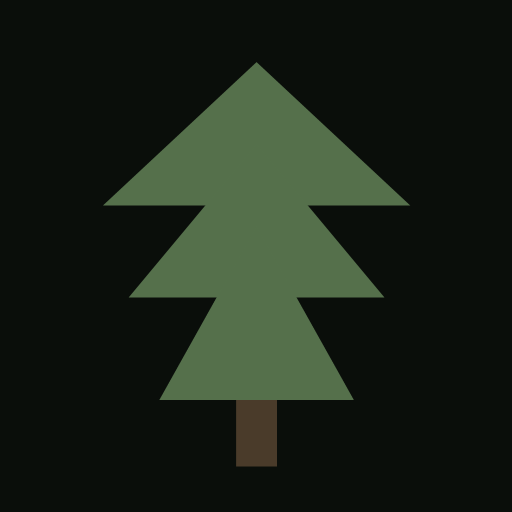
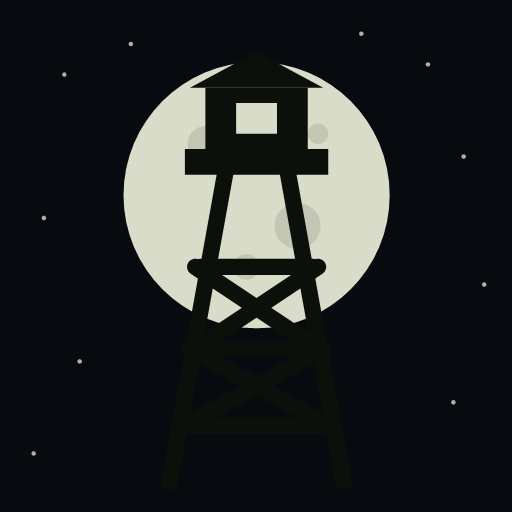
Rounded plane windows, better footsteps, the log shed and its map
- Plane cabin + door windows are rounded-corner portholes in raised
  rounded surrounds (ExtrudeGeometry ring + ShapeGeometry pane)
  instead of stacked boxes
- Footsteps: a pitched heel thud under randomized leaf-litter grains,
  occasional twig snap; water steps get body, slosh and spray layers
- End cards (ending/death/start) sized for phones: smaller type,
  scrollable, 80vw text measure
- New log shed halfway along the cabin-crash walk (~120m from each,
  the closest geometry allows to 100/100): stacked-log walls with an
  open doorway facing the crash, lean-to plank roof, corner posts,
  spare log pile, wall collision with the door gap open
- Inside: an iron-strapped plank chest, lid thrown back, holding a
  rolled map. Reading it shows a hand-drawn route map with the cabin,
  pond (new wobbly-shore glyph), watch tower, the shed itself, and
  the wreck marked with a cross
- Two new trail legs wear in: cabin -> shed and shed -> crash, with
  ribbons, grass and tree clearing following automatically
- App icon is now the watch tower silhouetted against the moon

Changed region(s): [[0.1875, 0.125, 0.8125, 0.9375]]

diff --git a/game.js b/game.js
@@ -119,6 +119,10 @@ const PART_SPOTS = {
   'Spark Plug': { x: GEN.x + 9,  z: GEN.z + 8 },
   'Drive Belt': { x: GEN.x - 4,  z: GEN.z - 13 },
 };
+/* the log shed sits on the old walk halfway between the cabin and the crash —
+   as near to "a hundred metres from each" as geometry allows (they're ~240 apart) */
+const SHED = { x: Math.round((CABIN.x + 3) / 2), z: Math.round((CABIN.z + 6) / 2) };
+const SHED_ROT = Math.atan2(3 - SHED.x, 6 - SHED.z); // its door looks toward the crash
 
 /* the walked trails — defined early so the forest leaves them clear.
    One leaves the crash mud for the cabin; the other leaves the opposite side
@@ -131,6 +135,9 @@ const TRAIL_LEGS = [
   { a: { x: 6, z: 1 }, b: { x: MAPCFG.riverX - 14, z: MAPCFG.bridgeZ } },      // crash -> the bridge
   { a: { x: MAPCFG.riverX + 14, z: MAPCFG.bridgeZ },                           // over the river -> the hill
     b: { x: HILL.x - 10, z: HILL.z + 9 } },
+  // the trapper's round: cabin -> the shed -> back to the crash clearing
+  { a: cabRot(2.5, 5.5), b: SHED },
+  { a: SHED, b: { x: -1, z: 9 } },
 ];
 function legNear(L, x, z, margin) {
   const dx = L.b.x - L.a.x, dz = L.b.z - L.a.z, len = Math.hypot(dx, dz);
@@ -1006,6 +1013,7 @@ function placeOK(x, z, clearCrash = true) {
   if (Math.hypot(x - HOLLOW.x, z - HOLLOW.z) < 14) return false;
   if (Math.hypot(x - HILL.x, z - HILL.z) < 10) return false;
   if (Math.hypot(x - GEN.x, z - GEN.z) < 8) return false; // the generator's little clearing
+  if (Math.hypot(x - SHED.x, z - SHED.z) < 8) return false; // the shed's clearing
   for (const k in PART_SPOTS)
     if (Math.hypot(x - PART_SPOTS[k].x, z - PART_SPOTS[k].z) < 2.6) return false;
   for (const c of CACHES) if (Math.hypot(x - c.x, z - c.z) < 3) return false;
@@ -1314,15 +1322,32 @@ function setInst(mesh, i, x, y, z, rx, ry, rz, sx, sy, sz, color) {
   pillar.position.set(2.62, 1.94, 0);
   pillar.rotation.z = -0.52;
   plane.add(pillar);
-  // framed cabin windows, three a side, with the panel and seats behind the glass
+  // cabin windows, three a side — rounded-corner portholes like the real thing,
+  // each in a raised rounded surround rather than a boxy frame
+  function roundedRect(w, h, r) {
+    const s2 = new THREE.Shape();
+    const x0 = -w / 2, y0 = -h / 2;
+    s2.moveTo(x0 + r, y0);
+    s2.lineTo(x0 + w - r, y0); s2.quadraticCurveTo(x0 + w, y0, x0 + w, y0 + r);
+    s2.lineTo(x0 + w, y0 + h - r); s2.quadraticCurveTo(x0 + w, y0 + h, x0 + w - r, y0 + h);
+    s2.lineTo(x0 + r, y0 + h); s2.quadraticCurveTo(x0, y0 + h, x0, y0 + h - r);
+    s2.lineTo(x0, y0 + r); s2.quadraticCurveTo(x0, y0, x0 + r, y0);
+    return s2;
+  }
+  const surround = roundedRect(0.64, 0.48, 0.2);
+  surround.holes.push(roundedRect(0.5, 0.34, 0.15));
+  const winFrameGeo = new THREE.ExtrudeGeometry(surround, { depth: 0.05, bevelEnabled: false });
+  const winGlassGeo = new THREE.ShapeGeometry(roundedRect(0.52, 0.36, 0.16));
   for (const s of [1, -1]) {
     for (let i = 0; i < 3; i++) {
       const fx = 2.0 - i * 0.85;
-      const frame = new THREE.Mesh(new THREE.BoxGeometry(0.68, 0.5, 0.07), frameM);
-      frame.position.set(fx, 1.52, s * 1.02);
+      const frame = new THREE.Mesh(winFrameGeo, frameM);
+      frame.position.set(fx, 1.52, s * 1.0);
+      if (s < 0) frame.rotation.y = Math.PI;
       plane.add(frame);
-      const win = new THREE.Mesh(new THREE.BoxGeometry(0.56, 0.38, 0.08), glass);
+      const win = new THREE.Mesh(winGlassGeo, glass);
       win.position.set(fx, 1.52, s * 1.03);
+      if (s < 0) win.rotation.y = Math.PI;
       plane.add(win);
     }
     const seat = new THREE.Mesh(new THREE.BoxGeometry(0.45, 0.6, 0.44), mat(0x5a3c34));
@@ -1391,8 +1416,9 @@ function setInst(mesh, i, x, y, z, rx, ry, rz, sx, sy, sz, color) {
   const dpanel = new THREE.Mesh(new THREE.BoxGeometry(0.06, 1.05, 0.72), hullPlain);
   dpanel.position.y = -0.5;
   door.add(dpanel);
-  const dwin = new THREE.Mesh(new THREE.BoxGeometry(0.08, 0.4, 0.5), glass);
-  dwin.position.y = -0.35;
+  const dwin = new THREE.Mesh(new THREE.ShapeGeometry(roundedRect(0.5, 0.38, 0.15)), glass);
+  dwin.position.set(0.045, -0.35, 0);
+  dwin.rotation.y = Math.PI / 2;
   door.add(dwin);
   const dhandle = new THREE.Mesh(new THREE.BoxGeometry(0.04, 0.05, 0.16), frameM);
   dhandle.position.set(0.05, -0.75, 0.24);
@@ -3241,6 +3267,33 @@ function makeRouteMap(opts) {
       g.moveTo(sx2 - 3, sz2 + 1); g.lineTo(sx2 + 3, sz2 + 1);
       g.stroke();
       g.strokeRect(sx2 - 3, sz2 - 11, 6, 4);
+    } else if (p.type === 'pond') { // a wobbly-shored blob, hatched the old way
+      g.lineWidth = 1.4;
+      const pr = Math.max(9, (p.r || 15) / ext * span);
+      g.beginPath();
+      for (let a2 = 0; a2 <= 6.6; a2 += 0.45) {
+        const rr = pr + wobble();
+        const X = sx2 + Math.cos(a2) * rr, Y = sz2 + Math.sin(a2) * rr * 0.72;
+        if (a2 === 0) g.moveTo(X, Y); else g.lineTo(X, Y);
+      }
+      g.closePath(); g.stroke();
+      g.lineWidth = 1.0;
+      for (let i = -1; i <= 1; i++) {
+        g.beginPath();
+        g.moveTo(sx2 - pr * 0.5, sz2 + i * pr * 0.28); g.lineTo(sx2 + pr * 0.5, sz2 + i * pr * 0.28);
+        g.stroke();
+      }
+    } else if (p.type === 'shed') { // a squat lean-to square
+      g.lineWidth = 1.5;
+      g.strokeRect(sx2 - 4, sz2 - 3, 8, 6);
+      g.beginPath(); g.moveTo(sx2 - 5, sz2 - 3); g.lineTo(sx2 + 5, sz2 - 6); g.stroke();
+      g.beginPath(); g.moveTo(sx2 + 1, sz2 - 1); g.lineTo(sx2 + 1, sz2 + 3); g.stroke(); // the door
+    } else if (p.type === 'wreck') { // where it came down, marked with a cross
+      g.lineWidth = 1.6;
+      g.beginPath();
+      g.moveTo(sx2 - 4, sz2 - 4); g.lineTo(sx2 + 4, sz2 + 4);
+      g.moveTo(sx2 + 4, sz2 - 4); g.lineTo(sx2 - 4, sz2 + 4);
+      g.stroke();
     }
   }
   // treeline scribbles — little humps everywhere the route isn't
@@ -3248,7 +3301,7 @@ function makeRouteMap(opts) {
   for (let i = 0; i < 120; i++) {
     const tx = pad + Math.random() * span, ty = pad + Math.random() * span;
     if (opts.river && Math.abs(tx - px(MAPCFG.riverX)) < 18) continue;
-    if (opts.spots.some(p => Math.hypot(tx - px(p.x), ty - py(p.z)) < (p.type === 'tower' ? 34 : 20))) continue;
+    if (opts.spots.some(p => Math.hypot(tx - px(p.x), ty - py(p.z)) < (p.type === 'tower' ? 34 : p.type === 'pond' ? 28 : 20))) continue;
     g.beginPath();
     g.arc(tx, ty, 3 + Math.random() * 3, Math.PI, 0);
     g.stroke();
@@ -3327,6 +3380,166 @@ function foundPiece() {
   } else if (state.quest === 0) {
     state.quest = 1; // found a loose piece before searching the wreck
   }
+}
+
+/* ---------------- the log shed, halfway between cabin and crash ---------------- */
+const SHED_NOTE = { title: "The trapper's map", body:
+`Drew this the winter I cut the shed logs, so I would stop losing my own tracks in the snow.
+
+The cabin, the pond, the shed you are standing in, and the tower on the great hill. The dotted line is the walk I wore between them.
+
+Whatever else you find marked out there — I did not draw it.` };
+SHED_NOTE.img = makeRouteMap({
+  river: true,
+  spots: [
+    { x: CABIN.x, z: CABIN.z, type: 'cabin', label: 'the cabin' },
+    { x: POND.x, z: POND.z, type: 'pond', r: POND.r, label: 'the pond' },
+    { x: HILL.x, z: HILL.z, type: 'tower', label: 'the tower' },
+    { x: SHED.x, z: SHED.z, type: 'shed', label: 'my shed' },
+    { x: 0, z: 3, type: 'wreck', label: '' },
+  ],
+  route: [{ x: CABIN.x, z: CABIN.z }, { x: SHED.x, z: SHED.z }, { x: -1, z: 9 }],
+});
+function shedRot(px, pz) { // shed local -> world
+  const c = Math.cos(SHED_ROT), s = Math.sin(SHED_ROT);
+  return { x: SHED.x + px * c + pz * s, z: SHED.z - px * s + pz * c };
+}
+{
+  const sy = groundY(SHED.x, SHED.z);
+  const g = new THREE.Group();
+  g.position.set(SHED.x, sy, SHED.z);
+  g.rotation.y = SHED_ROT;
+  const logA = mat(0x5d4a30, { map: barkTex }), logB = mat(0x4e3d27, { map: barkTex }),
+        plankM = mat(0x6a5436, { map: barkTex }), iron = mat(0x3a352c, { shininess: 30 });
+  const W = 3.6, D = 2.9, R = 0.11;
+  // stacked-log walls, doorway on the crash-facing side
+  for (let r = 0; r < 10; r++) {
+    const ry = 0.15 + r * 0.23, rm = r % 2 ? logA : logB;
+    for (const s of [-1, 1]) {
+      const c = new THREE.Mesh(new THREE.CylinderGeometry(R, R, D + 0.3, 7), rm);
+      c.rotation.x = Math.PI / 2;
+      c.position.set(s * W / 2, ry, 0);
+      g.add(c);
+    }
+    const back = new THREE.Mesh(new THREE.CylinderGeometry(R, R, W + 0.3, 7), rm);
+    back.rotation.z = Math.PI / 2;
+    back.position.set(0, ry, -D / 2);
+    g.add(back);
+    if (ry > 1.95) { // header logs carry on over the doorway
+      const h = new THREE.Mesh(new THREE.CylinderGeometry(R, R, W + 0.3, 7), rm);
+      h.rotation.z = Math.PI / 2;
+      h.position.set(0, ry, D / 2);
+      g.add(h);
+    } else {
+      const segLen = W / 2 - 0.55;
+      for (const s of [-1, 1]) {
+        const c = new THREE.Mesh(new THREE.CylinderGeometry(R, R, segLen, 7), rm);
+        c.rotation.z = Math.PI / 2;
+        c.position.set(s * (0.55 + segLen / 2), ry, D / 2);
+        g.add(c);
+      }
+    }
+  }
+  // door jambs, corner posts, a packed plank floor
+  for (const s of [-1, 1]) {
+    const jamb = new THREE.Mesh(new THREE.BoxGeometry(0.14, 2.05, 0.26), plankM);
+    jamb.position.set(s * 0.62, 1.02, D / 2);
+    g.add(jamb);
+  }
+  for (const sx of [-1, 1]) for (const sz of [-1, 1]) {
+    const post = new THREE.Mesh(new THREE.CylinderGeometry(0.13, 0.15, 2.5, 7), logB);
+    post.position.set(sx * W / 2, 1.2, sz * D / 2);
+    g.add(post);
+  }
+  const floor = new THREE.Mesh(new THREE.BoxGeometry(W - 0.2, 0.08, D - 0.2), mat(0x4a3a24, { map: barkTex }));
+  floor.position.y = 0.05;
+  g.add(floor);
+  // single-pitch roof, high over the door, battened in courses
+  const slab = new THREE.Mesh(new THREE.BoxGeometry(W + 0.9, 0.1, D + 1.2), plankM);
+  slab.position.set(0, 2.62, -0.1);
+  slab.rotation.x = -0.2;
+  g.add(slab);
+  for (const u of [-1.1, 0, 1.1]) {
+    const bat = new THREE.Mesh(new THREE.BoxGeometry(W + 0.9, 0.05, 0.14), logB);
+    bat.position.set(0, 2.68 + u * Math.sin(0.2), -0.1 + u * Math.cos(0.2));
+    g.add(bat);
+  }
+  // the box: a joined plank chest with iron straps, its lid thrown back
+  const chest = new THREE.Group();
+  chest.position.set(-0.85, 0.09, -0.65);
+  chest.rotation.y = 0.35;
+  for (let i = 0; i < 3; i++) {
+    const bm2 = i % 2 ? plankM : logA;
+    for (const s of [-1, 1]) {
+      const bd = new THREE.Mesh(new THREE.BoxGeometry(0.86, 0.17, 0.045), bm2);
+      bd.position.set(0, 0.1 + i * 0.18, s * 0.27);
+      chest.add(bd);
+    }
+    for (const s of [-1, 1]) {
+      const bd = new THREE.Mesh(new THREE.BoxGeometry(0.045, 0.17, 0.5), bm2);
+      bd.position.set(s * 0.42, 0.1 + i * 0.18, 0);
+      chest.add(bd);
+    }
+  }
+  const cbase = new THREE.Mesh(new THREE.BoxGeometry(0.86, 0.05, 0.56), logB);
+  cbase.position.y = 0.03;
+  chest.add(cbase);
+  for (const s of [-1, 1]) { // iron corner straps and a sprung hasp
+    const strap = new THREE.Mesh(new THREE.BoxGeometry(0.05, 0.5, 0.6), iron);
+    strap.position.set(s * 0.36, 0.26, 0);
+    chest.add(strap);
+  }
+  const hasp = new THREE.Mesh(new THREE.BoxGeometry(0.05, 0.16, 0.04), iron);
+  hasp.position.set(0, 0.44, 0.3);
+  hasp.rotation.x = 0.5; // hanging open
+  chest.add(hasp);
+  // the lid, thrown back against the wall behind
+  const lid = new THREE.Mesh(new THREE.BoxGeometry(0.9, 0.05, 0.58), plankM);
+  lid.position.set(0, 0.62, -0.48);
+  lid.rotation.x = -1.85;
+  chest.add(lid);
+  for (const s of [-1, 1]) {
+    const lstrap = new THREE.Mesh(new THREE.BoxGeometry(0.05, 0.012, 0.58), iron);
+    lstrap.position.set(s * 0.36, 0.645, -0.505);
+    lstrap.rotation.x = -1.85;
+    chest.add(lstrap);
+  }
+  const cavity = new THREE.Mesh(new THREE.BoxGeometry(0.78, 0.02, 0.48), mat(0x17130d));
+  cavity.position.y = 0.3;
+  chest.add(cavity);
+  // the rolled map, leaning in the open box, tied with a cord
+  const roll = new THREE.Mesh(new THREE.CylinderGeometry(0.045, 0.045, 0.56, 8), mat(0xc9c0a2));
+  roll.position.set(0.08, 0.46, 0.02);
+  roll.rotation.set(0.25, 0.4, 1.15);
+  chest.add(roll);
+  const cord = new THREE.Mesh(new THREE.TorusGeometry(0.05, 0.012, 4, 10), mat(0x4a3a26));
+  cord.position.set(0.08, 0.46, 0.02);
+  cord.rotation.set(0.25 + Math.PI / 2, 0.4, 1.15);
+  chest.add(cord);
+  g.add(chest);
+  // a few stacked spare logs against the outside wall
+  [[W / 2 + 0.35, 0.12, 0], [W / 2 + 0.57, 0.12, 0.25], [W / 2 + 0.46, 0.3, 0.1]].forEach(([lx, ly, lz], i) => {
+    const spare = new THREE.Mesh(new THREE.CylinderGeometry(0.09, 0.11, 2.2, 6), i % 2 ? logA : logB);
+    spare.rotation.x = Math.PI / 2;
+    spare.position.set(lx, ly, lz);
+    g.add(spare);
+  });
+  enableShadows(g);
+  scene.add(g);
+  addInteractable(roll, 'note', 'Take the map from the box', 'shed-map', { note: SHED_NOTE });
+  // wall collision, doorway open
+  const shedSegs = [
+    [-W / 2, -D / 2, W / 2, -D / 2],
+    [-W / 2, -D / 2, -W / 2, D / 2],
+    [W / 2, -D / 2, W / 2, D / 2],
+    [-W / 2, D / 2, -0.55, D / 2],
+    [0.55, D / 2, W / 2, D / 2],
+  ];
+  for (const s of shedSegs) {
+    const a = shedRot(s[0], s[1]), b = shedRot(s[2], s[3]);
+    wallSegs.push({ x1: a.x, z1: a.z, x2: b.x, z2: b.z, open: false });
+  }
+  addCollider(shedRot(-0.85, -0.65).x, shedRot(-0.85, -0.65).z, 0.5); // the chest blocks
 }
 
 /* cabin quest fixtures: locked door, back garden, the body, the letter */
@@ -5295,6 +5508,20 @@ const audio = (() => {
     src.connect(f).connect(g).connect(outTo(pan));
     src.start(ctx.currentTime + delay);
   }
+  // a soft pitched thump — the weight of a footfall rather than its texture
+  function thud(f0, dur, gain, delay = 0, pan = 0) {
+    if (!ctx) return;
+    const t0 = ctx.currentTime + delay;
+    const o = ctx.createOscillator(), g = ctx.createGain();
+    o.type = 'sine';
+    o.frequency.setValueAtTime(f0, t0);
+    o.frequency.exponentialRampToValueAtTime(Math.max(28, f0 * 0.5), t0 + dur);
+    g.gain.setValueAtTime(gain, t0);
+    g.gain.exponentialRampToValueAtTime(0.0004, t0 + dur);
+    o.connect(g).connect(outTo(pan));
+    o.start(t0);
+    o.stop(t0 + dur + 0.03);
+  }
   return {
     init,
     tick() {
@@ -5486,8 +5713,23 @@ const audio = (() => {
     splash() { noiseBurst(0.15, 900, 1.5, 0.15); noiseBurst(0.1, 1600, 2, 0.08, 0.05); },
     hiss() { noiseBurst(0.35, 4200, 1.2, 0.06); },
     step(wet) {
-      if (wet) { noiseBurst(0.09, 700, 1, 0.2); noiseBurst(0.06, 1400, 1.5, 0.09, 0.03); }
-      else { noiseBurst(0.05, 800 + Math.random() * 700, 1.1, 0.09); noiseBurst(0.04, 420, 1, 0.05, 0.02); }
+      if (wet) {
+        // boot into shallow water: the body of the slosh, then spray falling back
+        const f = 480 + Math.random() * 240;
+        thud(90 + Math.random() * 20, 0.07, 0.09);
+        noiseBurst(0.1, f, 0.9, 0.15);
+        noiseBurst(0.13, f * 2.1, 1.3, 0.06, 0.045);
+        noiseBurst(0.05, 2400 + Math.random() * 900, 2.5, 0.025, 0.08 + Math.random() * 0.04);
+      } else {
+        // heel strike lands as weight, then the sole settles into the litter as
+        // a couple of distinct grains — never the same step twice
+        thud(66 + Math.random() * 28, 0.08, 0.1);
+        const base = 700 + Math.random() * 600;
+        noiseBurst(0.035, base, 1.6, 0.05, 0.004);
+        noiseBurst(0.03, base * (1.5 + Math.random() * 0.5), 2, 0.032, 0.02 + Math.random() * 0.02);
+        if (Math.random() < 0.3) // a dry twig or leaf now and then
+          noiseBurst(0.02, 2000 + Math.random() * 1400, 3, 0.018, 0.035 + Math.random() * 0.03);
+      }
     },
     stepEcho(pan = 0) { // a stride heavier than yours, half a beat behind it
       noiseBurst(0.06, 520 + Math.random() * 260, 1.1, 0.05, 0, pan);

diff --git a/index.html b/index.html
@@ -311,6 +311,13 @@
   html.touch #note-overlay .paper h3 { font-size: 11px; }
   html.touch #note-date { font-size: 10px; margin-bottom: 10px; }
   html.touch #inv-grid { font-size: 11px; }
+  /* the black end-cards: keep every line on screen on a phone */
+  html.touch #start h1, html.touch #ending h1, html.touch #death h1 { font-size: 18px; letter-spacing: 6px; margin-bottom: 10px; }
+  html.touch #ending, html.touch #death { padding: 14px; overflow-y: auto; }
+  html.touch #ending p, html.touch #death p, html.touch #start p { font-size: 11px; line-height: 1.8; max-width: 80vw; }
+  html.touch #ending .final, html.touch #death .final { margin-top: 14px; font-size: 9px; }
+  html.touch #start .keys { font-size: 11px; margin: 12px 0; }
+  html.touch #start button { padding: 9px 28px; font-size: 12px; }
 
   /* ---------- Rotate-to-landscape gate ---------- */
   #rotate {